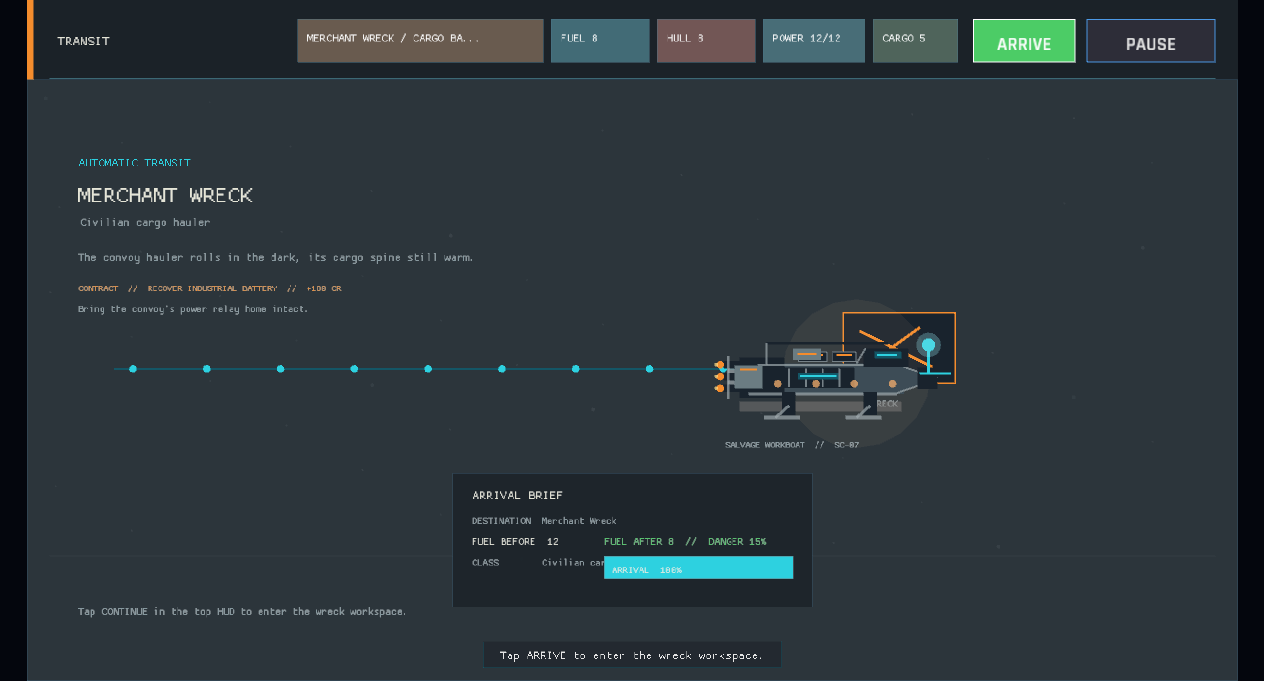
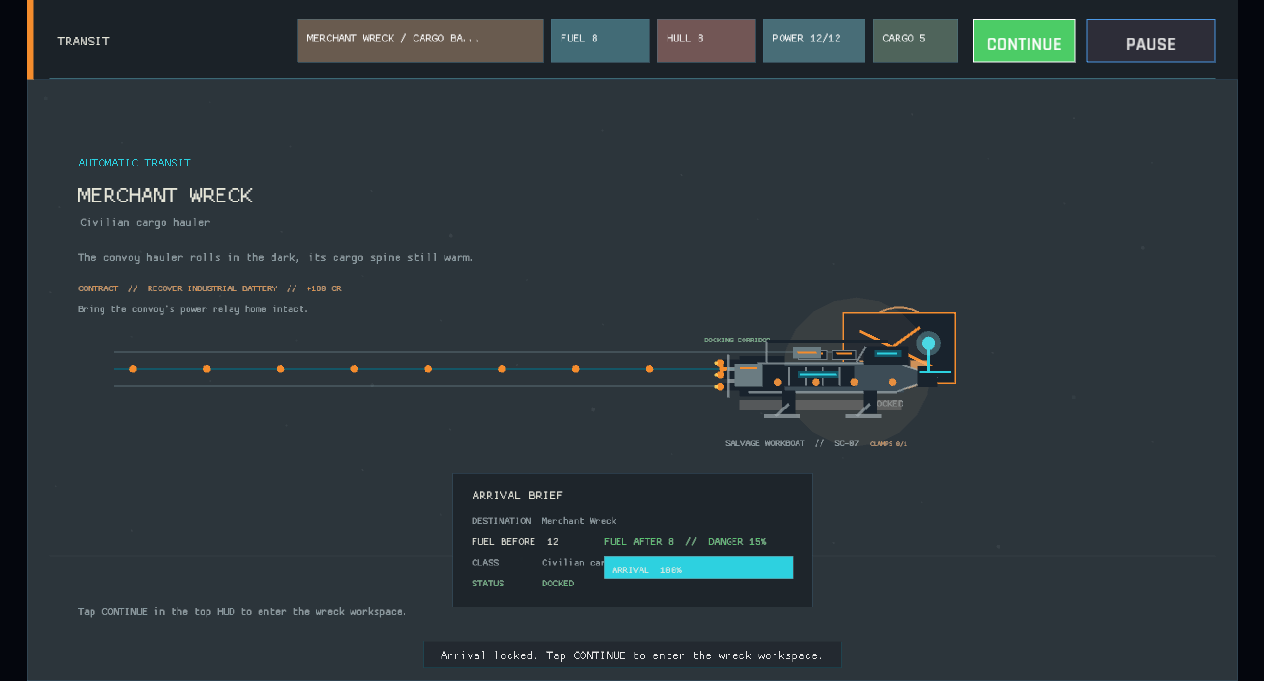
The transit lane wakes up as the workboat closes on the wreck (phased travel approach, GDD 6.3)
Travel now presents departure, cruise, final approach, and docked phases with a moving route signal, docking corridor, approach rings, and profile-specific destination signatures. The header and footer controls also switch from ARRIVE to CONTINUE at the docked endpoint so the skippable arrival flow stays touch-legible.

diff --git a/src/ui/travel.rs b/src/ui/travel.rs
@@ -5,6 +5,17 @@ use super::ship_visual;
 use super::visual_theme;
 use super::*;
 
+#[cfg(test)]
+mod tests;
+
+#[derive(Debug, Clone, Copy, PartialEq, Eq)]
+enum TravelPhase {
+    Departure,
+    Cruise,
+    FinalApproach,
+    Docked,
+}
+
 pub fn draw_travel(ctx: &UiContext<'_>, _actions: &mut Vec<UiAction>) {
     let view = scene_layout::travel_view();
     panel(view, visual_theme::panel_soft());
@@ -93,25 +104,21 @@ pub fn draw_travel(ctx: &UiContext<'_>, _actions: &mut Vec<UiAction>) {
             visual_theme::text_dim(),
         );
     }
-    draw_line(92.0, 390.0, 880.0, 390.0, 2.0, visual_theme::cyan_dim());
-    for index in 0..10 {
-        let x = 112.0 + index as f32 * 78.0;
-        draw_circle(
-            x,
-            390.0,
-            if index as f32 / 9.0 <= progress {
-                4.0
-            } else {
-                2.0
-            },
-            if index as f32 / 9.0 <= progress {
-                visual_theme::cyan()
-            } else {
-                visual_theme::structure_light()
-            },
-        );
-    }
-    draw_wreck_marker(862.0, 330.0, site.visual_theme.as_str(), progress);
+    let phase = travel_phase(progress);
+    draw_transit_route(
+        progress,
+        ctx.travel_elapsed,
+        site.visual_theme.as_str(),
+        phase,
+    );
+    draw_wreck_marker(
+        862.0,
+        330.0,
+        site.visual_theme.as_str(),
+        progress,
+        ctx.travel_elapsed,
+        phase,
+    );
     ship_visual::draw_ship(
         scene_layout::travel_ship_rect(progress),
         ctx.session,
@@ -166,11 +173,14 @@ pub fn draw_travel(ctx: &UiContext<'_>, _actions: &mut Vec<UiAction>) {
         &format!("ARRIVAL  {:02}%", (progress * 100.0) as i32),
     );
     draw_text(
-        if progress >= 1.0 {
-            "Tap CONTINUE in the top HUD to enter the wreck workspace."
-        } else {
-            "Tap ARRIVE in the top HUD whenever you are ready."
-        },
+        format!("STATUS       {}", travel_phase_label(phase)),
+        brief.x + 20.0,
+        brief.y + 120.0,
+        13.0,
+        travel_phase_color(phase),
+    );
+    draw_text(
+        travel_instruction(phase),
         54.0,
         650.0,
         14.0,
@@ -178,17 +188,209 @@ pub fn draw_travel(ctx: &UiContext<'_>, _actions: &mut Vec<UiAction>) {
     );
 }
 
-fn draw_wreck_marker(x: f32, y: f32, theme: &str, progress: f32) {
+fn travel_phase(progress: f32) -> TravelPhase {
+    match progress.clamp(0.0, 1.0) {
+        value if value < 0.18 => TravelPhase::Departure,
+        value if value < 0.72 => TravelPhase::Cruise,
+        value if value < 1.0 => TravelPhase::FinalApproach,
+        _ => TravelPhase::Docked,
+    }
+}
+
+fn travel_phase_label(phase: TravelPhase) -> &'static str {
+    match phase {
+        TravelPhase::Departure => "DEPARTURE",
+        TravelPhase::Cruise => "CRUISE",
+        TravelPhase::FinalApproach => "FINAL APPROACH",
+        TravelPhase::Docked => "DOCKED",
+    }
+}
+
+fn travel_phase_color(phase: TravelPhase) -> Color {
+    match phase {
+        TravelPhase::Departure | TravelPhase::Cruise => visual_theme::cyan(),
+        TravelPhase::FinalApproach => visual_theme::amber(),
+        TravelPhase::Docked => visual_theme::safe(),
+    }
+}
+
+fn travel_instruction(phase: TravelPhase) -> &'static str {
+    match phase {
+        TravelPhase::Departure => "Transit cleared. Tap ARRIVE whenever you are ready.",
+        TravelPhase::Cruise => "Route stable. Tap ARRIVE to skip ahead to the wreck.",
+        TravelPhase::FinalApproach => {
+            "Final approach locked. Tap ARRIVE to enter the wreck workspace."
+        }
+        TravelPhase::Docked => "Tap CONTINUE in the top HUD to enter the wreck workspace.",
+    }
+}
+
+fn draw_transit_route(progress: f32, elapsed: f32, theme: &str, phase: TravelPhase) {
+    let start_x = 92.0;
+    let end_x = 880.0;
+    let route_y = 390.0;
     let accent = visual_theme::site_accent(theme);
+    draw_line(
+        start_x,
+        route_y - 18.0,
+        end_x,
+        route_y - 18.0,
+        1.0,
+        visual_theme::with_alpha(visual_theme::cyan_dim(), 0.32),
+    );
+    draw_line(
+        start_x,
+        route_y + 18.0,
+        end_x,
+        route_y + 18.0,
+        1.0,
+        visual_theme::with_alpha(visual_theme::cyan_dim(), 0.32),
+    );
+    draw_line(
+        start_x,
+        route_y,
+        end_x,
+        route_y,
+        2.0,
+        visual_theme::cyan_dim(),
+    );
+    for index in 0..10 {
+        let marker_progress = index as f32 / 9.0;
+        let x = 112.0 + index as f32 * 78.0;
+        let reached = marker_progress <= progress;
+        draw_circle(
+            x,
+            route_y,
+            if reached { 4.0 } else { 2.0 },
+            if reached {
+                accent
+            } else {
+                visual_theme::structure_light()
+            },
+        );
+    }
+    if phase != TravelPhase::Docked {
+        let signal_progress = (elapsed * 0.32).fract();
+        let signal_x = start_x + (end_x - start_x) * signal_progress;
+        draw_circle(
+            signal_x,
+            route_y,
+            5.0,
+            visual_theme::with_alpha(visual_theme::text(), 0.85),
+        );
+        draw_circle_lines(
+            signal_x,
+            route_y,
+            12.0 + (elapsed * 5.0).sin().abs() * 5.0,
+            2.0,
+            visual_theme::with_alpha(accent, 0.72),
+        );
+    }
+    if matches!(phase, TravelPhase::FinalApproach | TravelPhase::Docked) {
+        draw_text(
+            "DOCKING CORRIDOR",
+            716.0,
+            route_y - 28.0,
+            10.0,
+            travel_phase_color(phase),
+        );
+    }
+}
+
+fn draw_wreck_marker(x: f32, y: f32, theme: &str, progress: f32, elapsed: f32, phase: TravelPhase) {
+    let accent = visual_theme::site_accent(theme);
+    let center = vec2(x + 60.0, y + 38.0);
+    if matches!(phase, TravelPhase::FinalApproach | TravelPhase::Docked) {
+        let pulse = if phase == TravelPhase::Docked {
+            42.0
+        } else {
+            30.0 + (elapsed * 3.0).sin().abs() * 10.0
+        };
+        draw_circle_lines(
+            center.x,
+            center.y,
+            pulse,
+            2.0,
+            visual_theme::with_alpha(accent, 0.7),
+        );
+        draw_line(
+            center.x - pulse - 12.0,
+            center.y,
+            center.x - pulse,
+            center.y,
+            2.0,
+            accent,
+        );
+        draw_line(
+            center.x + pulse,
+            center.y,
+            center.x + pulse + 12.0,
+            center.y,
+            2.0,
+            accent,
+        );
+    }
     draw_rectangle(x, y, 120.0, 76.0, visual_theme::structure_dark());
     draw_rectangle_lines(x, y, 120.0, 76.0, 3.0, accent);
     draw_line(x + 18.0, y + 20.0, x + 95.0, y + 58.0, 3.0, accent);
     draw_line(x + 82.0, y + 16.0, x + 18.0, y + 62.0, 3.0, accent);
+    draw_profile_signature(x, y, theme, elapsed);
     draw_text(
-        if progress >= 1.0 { "WRECK" } else { "TARGET" },
+        if progress >= 1.0 {
+            "DOCKED"
+        } else if phase == TravelPhase::FinalApproach {
+            "APPROACH"
+        } else {
+            "TARGET"
+        },
         x + 30.0,
         y + 100.0,
         13.0,
         visual_theme::text_dim(),
     );
+}
+
+fn draw_profile_signature(x: f32, y: f32, theme: &str, elapsed: f32) {
+    match theme {
+        "military" => {
+            draw_line(
+                x + 20.0,
+                y + 18.0,
+                x + 48.0,
+                y + 58.0,
+                4.0,
+                visual_theme::warning(),
+            );
+            draw_line(
+                x + 100.0,
+                y + 18.0,
+                x + 72.0,
+                y + 58.0,
+                4.0,
+                visual_theme::warning(),
+            );
+            draw_circle(x + 60.0, y + 38.0, 5.0, visual_theme::warning());
+        }
+        "research" => {
+            draw_circle_lines(
+                x + 60.0,
+                y + 38.0,
+                19.0 + (elapsed * 2.0).sin().abs() * 5.0,
+                2.0,
+                visual_theme::cyan(),
+            );
+            draw_circle(x + 60.0, y + 38.0, 4.0, visual_theme::cyan());
+        }
+        _ => {
+            for index in 0..3 {
+                draw_rectangle(
+                    x + 18.0 + index as f32 * 27.0,
+                    y + 51.0,
+                    18.0,
+                    10.0,
+                    visual_theme::with_alpha(visual_theme::amber(), 0.75),
+                );
+            }
+        }
+    }
 }

diff --git a/src/ui.rs b/src/ui.rs
@@ -200,7 +200,11 @@ fn draw_header(ctx: &UiContext<'_>, actions: &mut Vec<UiAction>) {
         draw_operation_badges(ctx);
         let action_rect = Rect::new(1000.0, 20.0, 108.0, 46.0);
         let action_label = if screen == GameState::Travel {
-            "ARRIVE"
+            if ctx.travel_elapsed >= 4.0 {
+                "CONTINUE"
+            } else {
+                "ARRIVE"
+            }
         } else {
             "RETURN"
         };
@@ -494,7 +498,12 @@ fn draw_footer(ctx: &UiContext<'_>) {
     if ctx.message.is_empty() {
         return;
     }
-    let text = clipped(ctx.message, 92);
+    let footer_message = if active_screen(ctx) == GameState::Travel && ctx.travel_elapsed >= 4.0 {
+        "Arrival locked. Tap CONTINUE to enter the wreck workspace."
+    } else {
+        ctx.message
+    };
+    let text = clipped(footer_message, 92);
     let measured = measure_text(&text, None, 16, 1.0).width;
     let rect = Rect::new(
         ((LOGICAL_WIDTH - measured - 36.0) * 0.5).max(24.0),

diff --git a/src/ui/travel/tests.rs b/src/ui/travel/tests.rs
@@ -1,0 +1,21 @@
+use super::*;
+
+#[test]
+fn travel_phase_advances_in_order() {
+    assert_eq!(travel_phase(0.0), TravelPhase::Departure);
+    assert_eq!(travel_phase(0.4), TravelPhase::Cruise);
+    assert_eq!(travel_phase(0.9), TravelPhase::FinalApproach);
+    assert_eq!(travel_phase(1.0), TravelPhase::Docked);
+}
+
+#[test]
+fn travel_phase_clamps_out_of_range_progress() {
+    assert_eq!(travel_phase(-0.5), TravelPhase::Departure);
+    assert_eq!(travel_phase(1.5), TravelPhase::Docked);
+}
+
+#[test]
+fn travel_instructions_name_the_visible_next_control() {
+    assert!(travel_instruction(TravelPhase::Cruise).contains("ARRIVE"));
+    assert!(travel_instruction(TravelPhase::Docked).contains("CONTINUE"));
+}
